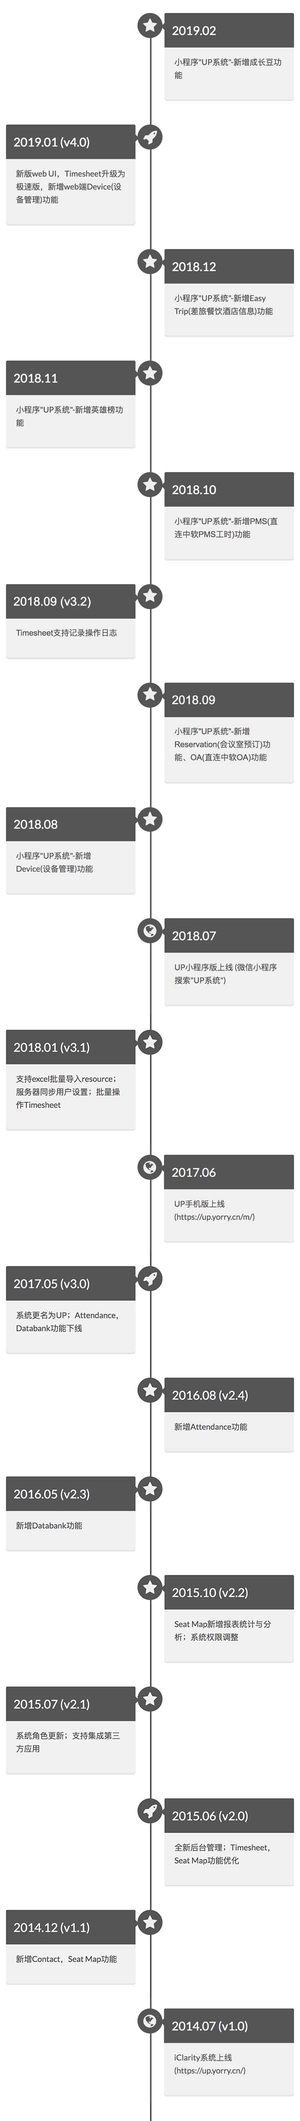
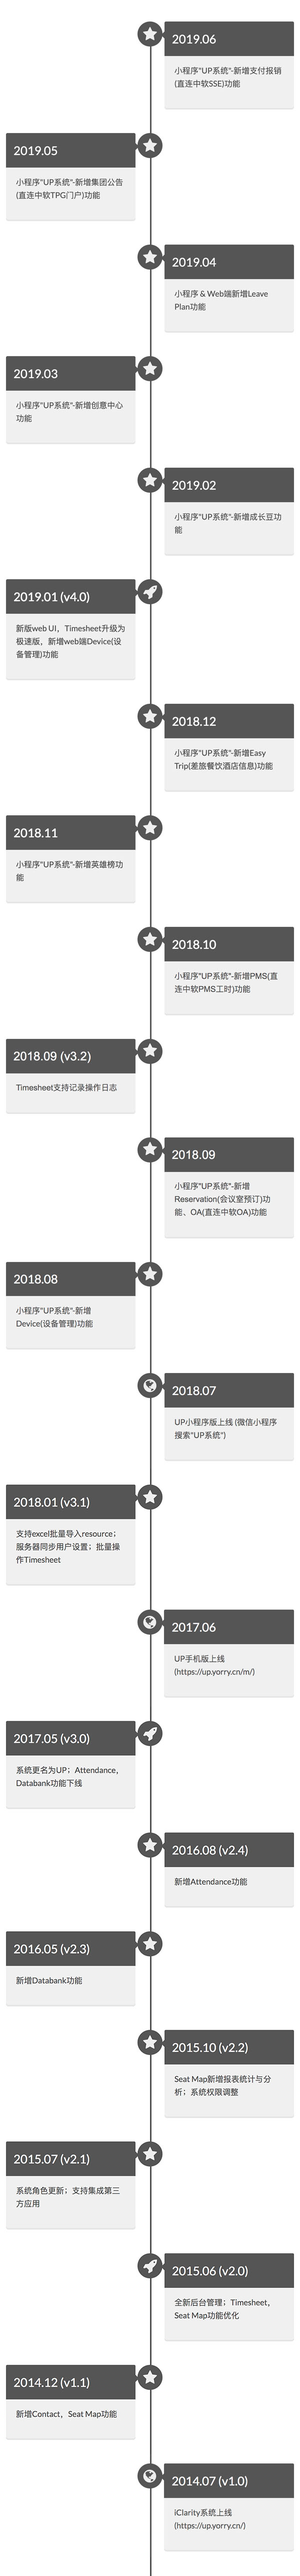
Add posts for 2019-H1

Changed region(s): [[0.0, 0.0, 0.99, 0.5291], [0.0, 0.5291, 0.99, 0.996]]

diff --git a/_posts/2014-7-1-up.md b/_posts/2014-7-1-up.md
@@ -2,8 +2,8 @@
 layout: post
 title: UP系统 (原iClarity系统)
 description: "UP系统 (原iClarity系统) 电脑版 手机版 小程序版 版本历史"
-modified: 2018-12-27
-tags: [作品]
+modified: 2019-6-6
+tags: [作品,小程序]
 categories: [Prod]
 sid: upsystem
 ---
@@ -368,6 +368,8 @@ sid: upsystem
 </style>
 {:/nomarkdown}
 
+---
+
 ## 系统截图
 
 (敏感信息已打码)
@@ -392,6 +394,10 @@ Attendance
 [![Smithsonian Image](//up.yorry.cn/link/up/up_a.png)](//up.yorry.cn/link/up/up_a.png)
 {: .image-contain}
 
+Leave Plan
+[![Smithsonian Image](/images/up_leave_plan_20190511_banner.jpg)](/images/up_leave_plan_20190511_banner.jpg)
+{: .image-contain}
+
 Device [[链接]](/prod/up-device/)
 [![Smithsonian Image](//up.yorry.cn/link/up/IMG_4972.PNG)](//up.yorry.cn/link/up/IMG_4972.PNG)
 {: .image-contain}
@@ -399,3 +405,20 @@ Device [[链接]](/prod/up-device/)
 Reservation [[链接]](/prod/up-reservation/)
 [![Smithsonian Image](//up.yorry.cn/link/up/IMG_5003.PNG)](//up.yorry.cn/link/up/IMG_5003.PNG)
 {: .image-contain}
+
+---
+
+## 相关链接
+> [UP系统-设备管理](/prod/up-device/)
+
+> [UP系统-会议室预订](/prod/up-reservation/)
+
+> [中软同事们，是时候换个姿势打开OA和PMS工时系统了！](https://mp.weixin.qq.com/s?__biz=MjM5NDQyMzMzNg==&mid=2648896276&idx=1&sn=1c27f1fb3f7209f2f855c7dd1b98fe2e)
+
+> [【UP系统-创意中心】来啦](https://mp.weixin.qq.com/s?__biz=MjM5NDQyMzMzNg==&mid=2648896308&idx=1&sn=6e55dab951004868875c09d62f73bb33)
+
+> [中软OA第三方移动客户端UP系统微信小程序使用说明书](https://mp.weixin.qq.com/s?__biz=MjM5NDQyMzMzNg==&mid=2648896331&idx=1&sn=c5fa8229d3e0ae3dc9a88d64ae8af2b5)
+
+> [UP·Leave Plan-请假计划在线收集系统](https://mp.weixin.qq.com/s?__biz=MjM5NDQyMzMzNg==&mid=2648896353&idx=1&sn=66aa7005911fe9073b619e50a8bc4e1e)
+
+> [安排上了！UP小程序直连SSE支付报销系统](https://mp.weixin.qq.com/s?__biz=MjM5NDQyMzMzNg==&mid=2648896379&idx=1&sn=4e7cac0d3d29f46378f771779aff0b0c)

diff --git a/_posts/2019-6-29-miniprogram-room.md b/_posts/2019-6-29-miniprogram-room.md
@@ -1,0 +1,34 @@
+---
+layout: post
+title: UP会议室 (微信小程序)
+description: "源于\"UP系统\"小程序的会议室预订功能，颠覆式图形化操作，极致的用户体验，告别传统\"填表-搜索-预订\"模式。"
+tags: [作品,小程序]
+categories: [Prod]
+sid: miniprogram-room
+---
+
+### 小程序码
+![Smithsonian Image](//up.yorry.cn/wx/app/1004_qr_room.jpg)
+{: .image-contain}
+
+源于"UP系统"小程序的会议室预订功能，颠覆式图形化操作，极致的用户体验，告别传统"填表-搜索-预订"模式。
+
+适用于所有学校、单位、企业的会议室预订管理小程序，有微信就能用，免费！
+
+<!--more-->
+
+---
+
+### 预览
+
+[![Smithsonian Image](//up.yorry.cn/wx/app/1004_room_1.jpg)](//up.yorry.cn/wx/up/1004_room_1.jpg)
+{: .image-contain}
+
+[![Smithsonian Image](//up.yorry.cn/wx/app/1004_room_2.jpg)](//up.yorry.cn/wx/up/1004_room_2.jpg)
+{: .image-contain}
+
+[![Smithsonian Image](//up.yorry.cn/wx/app/1004_room_3.jpg)](//up.yorry.cn/wx/up/1004_room_3.jpg)
+{: .image-contain}
+
+[![Smithsonian Image](//up.yorry.cn/wx/app/1004_room_4.jpg)](//up.yorry.cn/wx/up/1004_room_4.jpg)
+{: .image-contain}

diff --git a/_posts/2018-6-29-miniprogram-KOsudoku.md b/_posts/2018-6-29-miniprogram-KOsudoku.md
@@ -2,7 +2,7 @@
 layout: post
 title: 破解数独 (微信小程序)
 description: "前几天整理以前的代码，发现7年前写了个Android app是破解数独的。想来自己也写了不少微信小程序了，却还没以个人名义正式发布过，干脆从它开始，量产个人小程序，顺便丰富下业余生活。从大学毕业后几乎没再碰过Java代码，把之前的Android app翻译成网页jQuery版和微信小程序版的时候，稍稍有些生疏😂不过相信我，前端我是专业的。。。"
-tags: [作品]
+tags: [作品,小程序,抖音,视频]
 categories: [Prod]
 sid: miniprogram-kosudoku
 ---
@@ -16,6 +16,13 @@ sid: miniprogram-kosudoku
 从大学毕业后几乎没再碰过Java代码，把之前的Android app翻译成网页jQuery版和微信小程序版的时候，稍稍有些生疏😂不过相信我，前端我是专业的。。。
 
 <!--more-->
+
+---
+
+### 演示视频
+{::nomarkdown}
+<video width=250 class="my-video" src="//up.yorry.cn/video/8ab29aae8a6f35f8ccb345fbe4f666d9.MP4" controls="controls">您的浏览器不支持 video 标签。</video>
+{:/nomarkdown}
 
 ---
 

diff --git a/_posts/2019-3-23-wx-oa-guide.md b/_posts/2019-3-23-wx-oa-guide.md
@@ -1,0 +1,11 @@
+---
+layout: post
+title: "中软OA第三方移动客户端UP系统微信小程序使用说明书"
+description: "作为懒癌晚期+深度强迫症患者，为求自保，凭借多年来对移动互联网产品的观摩学习，斗胆为自己开出了一剂药方：\"UP系统\"微信小程序！临床实验表明，该药控制病情效果显著。为造福更多病友，我们于2018年9月对外正式发布了该药，半年来不断改进和完善，已成为广大患者的福音！"
+tags: [公众号, 链接]
+link: https://mp.weixin.qq.com/s?__biz=MjM5NDQyMzMzNg==&mid=2648896331&idx=1&sn=c5fa8229d3e0ae3dc9a88d64ae8af2b5
+categories: [wx]
+---
+
+![Smithsonian Image]({{ site.url }}/images/up_banner.png)
+作为懒癌晚期+深度强迫症患者，为求自保，凭借多年来对移动互联网产品的观摩学习，斗胆为自己开出了一剂药方：\"UP系统\"微信小程序！临床实验表明，该药控制病情效果显著。为造福更多病友，我们于2018年9月对外正式发布了该药，半年来不断改进和完善，已成为广大患者的福音！

diff --git a/_posts/2019-5-13-miniprogram-tools.md b/_posts/2019-5-13-miniprogram-tools.md
@@ -1,0 +1,34 @@
+---
+layout: post
+title: 最佳工具包 (微信小程序)
+description: "便捷、高效的小工具合集"
+tags: [作品,小程序]
+categories: [Prod]
+sid: miniprogram-tools
+---
+
+### 小程序码
+![Smithsonian Image](//up.yorry.cn/wx/app/1003_qr_tools.jpg)
+{: .image-contain}
+
+便捷、高效的小工具合集。
+
+基于uni-app + ColorUI做POC的产物(uni-app 是一个使用 Vue.js 开发跨平台应用的前端框架，开发者编写一套代码，可编译到iOS、Android、H5、小程序等多个平台)。
+
+<!--more-->
+
+---
+
+### 预览
+
+[![Smithsonian Image](//up.yorry.cn/wx/app/1003_tools_1.jpg)](//up.yorry.cn/wx/up/1003_tools_1.jpg)
+{: .image-contain}
+
+[![Smithsonian Image](//up.yorry.cn/wx/app/1003_tools_2.jpg)](//up.yorry.cn/wx/up/1003_tools_2.jpg)
+{: .image-contain}
+
+[![Smithsonian Image](//up.yorry.cn/wx/app/1003_tools_3.jpg)](//up.yorry.cn/wx/up/1003_tools_3.jpg)
+{: .image-contain}
+
+[![Smithsonian Image](//up.yorry.cn/wx/app/1003_tools_4.jpg)](//up.yorry.cn/wx/up/1003_tools_4.jpg)
+{: .image-contain}

diff --git a/_posts/2019-3-6-wx-idea.md b/_posts/2019-3-6-wx-idea.md
@@ -1,0 +1,11 @@
+---
+layout: post
+title: "【UP系统-创意中心】来啦"
+description: "每位程序员仿佛都有一支马良的神笔，无论是将日常事务化繁为简，还是为生活创造新奇美好，总能用代码改变世界，用智慧颠覆未来。很庆幸，也很自豪，作为程序员，我们总是在创造！我们不止有天马行空的创意，更有让梦想照进现实的能力！"
+tags: [公众号, 链接]
+link: https://mp.weixin.qq.com/s?__biz=MjM5NDQyMzMzNg==&mid=2648896308&idx=1&sn=6e55dab951004868875c09d62f73bb33
+categories: [wx]
+---
+
+![Smithsonian Image]({{ site.url }}/images/up_idea_banner.jpg)
+每位程序员仿佛都有一支马良的神笔，无论是将日常事务化繁为简，还是为生活创造新奇美好，总能用代码改变世界，用智慧颠覆未来。很庆幸，也很自豪，作为程序员，我们总是在创造！我们不止有天马行空的创意，更有让梦想照进现实的能力！

diff --git a/_posts/2019-6-2-yorry-3d-name.md b/_posts/2019-6-2-yorry-3d-name.md
@@ -1,0 +1,24 @@
+---
+layout: post
+title: "儿童节礼物-纸星星拼名字"
+description: "送给我家大宝贝儿的儿童节礼物，折纸星星拼我俩的名字"
+tags: [抖音,视频]
+categories: [Blog]
+sid: 20190602
+---
+
+送给我家大宝贝儿的儿童节礼物，折纸星星拼我俩的名字。结果严重低估了这个的工程量，导致晚送了一天，哈哈。
+
+#### 成品效果
+
+{::nomarkdown}
+<video width=250 class="my-video" src="//up.yorry.cn/video/80e7a24aae71c4e5739bd5c1c5f33e.MP4" controls="controls">您的浏览器不支持 video 标签。</video>
+{:/nomarkdown}
+
+---
+
+#### 3D模型
+
+{::nomarkdown}
+<video width=500 class="my-video" src="//up.yorry.cn/video/2ecc8b0190a2f470b795c13078543316.MP4" controls="controls">您的浏览器不支持 video 标签。</video>
+{:/nomarkdown}

diff --git a/_posts/2019-5-11-wx-leave-plan.md b/_posts/2019-5-11-wx-leave-plan.md
@@ -1,0 +1,11 @@
+---
+layout: post
+title: "UP·Leave Plan-请假计划在线收集系统"
+description: "继承UP系统人员组织架构及权限控制体系，同步企业工作日历，深度融合Timesheet功能，支持web网页版、微信小程序"
+tags: [公众号, 链接]
+link: https://mp.weixin.qq.com/s?__biz=MjM5NDQyMzMzNg==&mid=2648896353&idx=1&sn=66aa7005911fe9073b619e50a8bc4e1e
+categories: [wx]
+---
+
+![Smithsonian Image]({{ site.url }}/images/up_leave_plan_20190511_banner.jpg)
+继承UP系统人员组织架构及权限控制体系，同步企业工作日历，深度融合Timesheet功能，支持web网页版、微信小程序

diff --git a/_posts/2018-10-8-wx-oa-pms.md b/_posts/2018-10-8-wx-oa-pms.md
@@ -3,7 +3,7 @@ layout: post
 title: "中软同事们，是时候换个姿势打开OA和PMS工时系统了！"
 description: "一键查年假/调休/打卡记录，一键提交电子流，一键提交整月工时，一切尽在UP系统！"
 tags: [公众号, 链接]
-link: https://mp.weixin.qq.com/s?__biz=MjM5NDQyMzMzNg==&mid=2648896276&idx=1&sn=1c27f1fb3f7209f2f855c7dd1b98fe2e&chksm=be91a45389e62d4508214abeb5080bbe118df860c54b054f454caa327e545da5ed37798c87b3&token=503957019&lang=zh_CN#rd
+link: https://mp.weixin.qq.com/s?__biz=MjM5NDQyMzMzNg==&mid=2648896276&idx=1&sn=1c27f1fb3f7209f2f855c7dd1b98fe2e
 categories: [wx]
 ---
 

diff --git a/_posts/2019-6-6-wx-sse.md b/_posts/2019-6-6-wx-sse.md
@@ -1,0 +1,11 @@
+---
+layout: post
+title: "安排上了！UP小程序直连SSE支付报销系统"
+description: "同事吐槽：提交出差申请不方便，查询报销状态也麻烦。UP系统说：安排！"
+tags: [公众号, 链接]
+link: https://mp.weixin.qq.com/s?__biz=MjM5NDQyMzMzNg==&mid=2648896379&idx=1&sn=4e7cac0d3d29f46378f771779aff0b0c
+categories: [wx]
+---
+
+![Smithsonian Image]({{ site.url }}/images/up_banner_2.png)
+同事吐槽：提交出差申请不方便，查询报销状态也麻烦。UP系统说：安排！

diff --git a/_posts/2011-9-22-kosudoku.md b/_posts/2011-9-22-kosudoku.md
@@ -60,4 +60,4 @@ sid: kosudoku
 
 貌似现在安卓市场已经倒闭了😂 我自己给个 [apk下载链接](//up.yorry.cn/link/kosudoku/KOsudoku.apk) 吧。
 
-> 发布到了安卓市场 [//static.apk.hiapk.com/html/2011/11/322408.html](//static.apk.hiapk.com/html/2011/11/322408.html)
+> 发布到了安卓市场 [http://static.apk.hiapk.com/html/2011/11/322408.html](//static.apk.hiapk.com/html/2011/11/322408.html)

diff --git a/_posts/2018-8-29-up-device.md b/_posts/2018-8-29-up-device.md
@@ -2,7 +2,7 @@
 layout: post
 title: UP系统-设备管理
 description: "UP·设备管理功能上线啦！告别低效登记，解决清点困难，减少懵逼背锅侠，优化资源协调，降低闲置浪费。"
-tags: [作品]
+tags: [作品,小程序]
 categories: [Prod]
 sid: up-device
 ---
